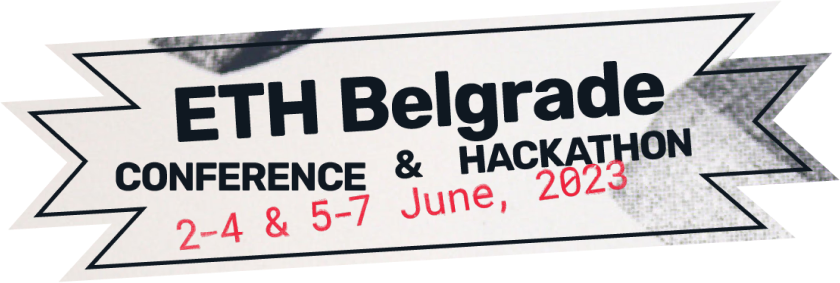
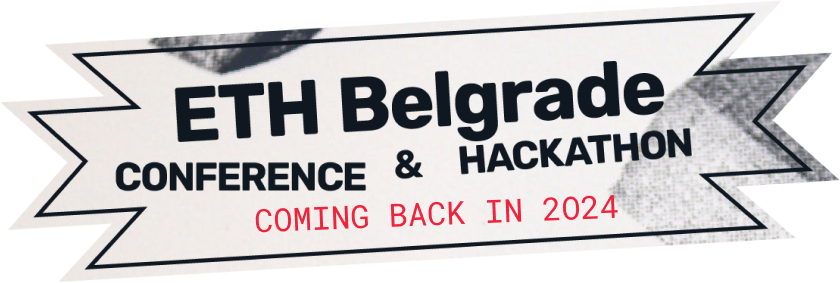
Clean things

Changed region(s): [[0.1857, 0.5654, 0.7738, 0.9046]]

diff --git a/components/hackathon/hero/hero.js b/components/hackathon/hero/hero.js
@@ -10,29 +10,29 @@ const Hero = () => (
         <div className={styles.labelContainer}>
           <img className={styles.sticker} src="/images/hackathon/hero-sticker.svg" alt="ETH Belgrade hackathon sticker" />
           <img className={styles.label} src="/images/hackathon/hero-label.png" alt="ETH Belgrade hackathonx label" />
-          <p className={styles.date}>5-7 june, 2023</p>
+          <p className={styles.date}>Coming back in 2024</p>
         </div>
       </div>
-      <div className={styles.buttons}>
-        <a href="https://taikai.network/ethbelgrade/hackathons/hackathon-2023" target="_blank" rel="noreferrer noopener">
-          <Button ghost>
-            Apply to hack
-          </Button>
-        </a>
-        <a href="https://form.typeform.com/to/nese2ESV" target="_blank" rel="noreferrer noopener">
-          <Button ghost>
-            Apply to mentor
-          </Button>
-        </a>
-        <a href="https://form.typeform.com/to/SwUgSexI" target="_blank" rel="noreferrer noopener">
-          <Button ghost>
-            Apply to judge
-          </Button>
-        </a>
-        <a href="https://discord.gg/jQvtXAFHmS" target="_blank" rel="noreferrer noopener">
-          <Button ghost>Join Discord</Button>
-        </a>
-      </div>
+      {/*<div className={styles.buttons}>*/}
+      {/*  <a href="https://taikai.network/ethbelgrade/hackathons/hackathon-2023" target="_blank" rel="noreferrer noopener">*/}
+      {/*    <Button ghost>*/}
+      {/*      Apply to hack*/}
+      {/*    </Button>*/}
+      {/*  </a>*/}
+      {/*  <a href="https://form.typeform.com/to/nese2ESV" target="_blank" rel="noreferrer noopener">*/}
+      {/*    <Button ghost>*/}
+      {/*      Apply to mentor*/}
+      {/*    </Button>*/}
+      {/*  </a>*/}
+      {/*  <a href="https://form.typeform.com/to/SwUgSexI" target="_blank" rel="noreferrer noopener">*/}
+      {/*    <Button ghost>*/}
+      {/*      Apply to judge*/}
+      {/*    </Button>*/}
+      {/*  </a>*/}
+      {/*  <a href="https://discord.gg/jQvtXAFHmS" target="_blank" rel="noreferrer noopener">*/}
+      {/*    <Button ghost>Join Discord</Button>*/}
+      {/*  </a>*/}
+      {/*</div>*/}
     </div>
   </div>
 );

diff --git a/components/landing/partners/partners.js b/components/landing/partners/partners.js
@@ -7,7 +7,7 @@ const Partners = () => (
       <div className={styles.content}>
         <div className={styles.sponsors}>
           <p className={styles.title}>They’ve helped us BIG TIME!</p>
-          <p>Shout out to key industry players for supporting this year’s ETH Belgrade!</p>
+          <p>Shout out to key industry players for supporting ETH Belgrade 2023!</p>
           <div className={styles.sponsorsList}>
             <a href="https://tenderly.co/" target="_blank" rel="noreferrer noopener">
               <img src="/images/partners/tenderly.svg" alt="Tenderly logo" />
@@ -136,12 +136,12 @@ const Partners = () => (
         {/*</div>*/}
         {/* TODO: Comment oput when ready ENDS */}
 
-        <div className={styles.ctaSection}>
-          <p className={styles.ctaTitle}>Consider becoming a partner?</p>
-          <a href="https://forms.gle/89GkWspMwfCoNyqj9" target="_blank" rel="noreferrer noopener">
-            <Button>Get in touch</Button>
-          </a>
-        </div>
+        {/*<div className={styles.ctaSection}>*/}
+        {/*  <p className={styles.ctaTitle}>Consider becoming a partner?</p>*/}
+        {/*  <a href="https://forms.gle/89GkWspMwfCoNyqj9" target="_blank" rel="noreferrer noopener">*/}
+        {/*    <Button>Get in touch</Button>*/}
+        {/*  </a>*/}
+        {/*</div>*/}
       </div>
     </div>
   </div>

diff --git a/components/landing/venue/venue.js b/components/landing/venue/venue.js
@@ -7,10 +7,10 @@ const Venue = () => (
       <div className={styles.content}>
         <div className={styles.header}>
           <div className={styles.titleWrapper}>
-            <p className={styles.title}>The Venue</p>
+            <p className={styles.title}>2023 Venue</p>
             <p className={styles.subtitle}>MTS Dvorana</p>
           </div>
-          <p>Join us at the historic Trade Union Hall building. Originally built in the 1950, it hosted everything
+          <p>The historic Trade Union Hall building. Originally built in the 1950, it hosted everything
             from chess championships to music and film festivals. After the most-recent renovation, it serves as a multiplex,
             gallery, and event center. </p>
         </div>

diff --git a/components/hackathon/sponsors/sponsors.js b/components/hackathon/sponsors/sponsors.js
@@ -48,11 +48,11 @@ const Sponsors = () => (
           </div>
         </div>
       </div>
-      <div className={styles.cta}>
-        <a href="mailto:partnerships@ethbelgrade.rs">
-          <Button className={styles.button}>Sponsor the hackathon</Button>
-        </a>
-      </div>
+      {/*<div className={styles.cta}>*/}
+      {/*  <a href="mailto:partnerships@ethbelgrade.rs">*/}
+      {/*    <Button className={styles.button}>Sponsor the hackathon</Button>*/}
+      {/*  </a>*/}
+      {/*</div>*/}
     </div>
   </div>
 );

diff --git a/components/common/navigation/navigation.js b/components/common/navigation/navigation.js
@@ -19,9 +19,9 @@ const Menu = () => (
     <Link href="/#partners">
       <span className={styles.menuItem}>Partners</span>
     </Link>
-    <Link href="/#startups">
-      <span className={styles.menuItem}>Startups</span>
-    </Link>
+    {/*<Link href="/#startups">*/}
+    {/*  <span className={styles.menuItem}>Startups</span>*/}
+    {/*</Link>*/}
     <Link href="/hackathon">
       <span className={styles.menuItem}>Hackathon</span>
     </Link>

diff --git a/pages/index.js b/pages/index.js
@@ -44,12 +44,12 @@ export default function Home() {
       <Speakers />
       <Partners />
       <MediaPartners />
-      <Startups />
-      <TicketCta />
-      <Team />
+      {/*<Startups />*/}
+      {/*<TicketCta />*/}
+      {/*<Team />*/}
       <Quote />
       <Newsletter />
-      <Hackathon />
+      {/*<Hackathon />*/}
       <Venue />
     </div>
   )

diff --git a/components/landing/agenda/agenda.js b/components/landing/agenda/agenda.js
@@ -1,6 +1,5 @@
 import Link from "next/link";
 import styles from "./agenda.module.scss";
-import Link from "next/link";
 import { Tab, Tabs, TabList, TabPanel } from "react-tabs";
 
 import agenda from "./agenda.json";

diff --git a/components/landing/venue/venue.module.scss b/components/landing/venue/venue.module.scss
@@ -1,7 +1,7 @@
 @import "styles/breakpoints";
 
 .venue {
-  padding: 0 0 200px;
+  padding: 100px 0 200px;
   //@include breakpoint(big-tablet) {
   //  padding: 200px 0;
   //}
